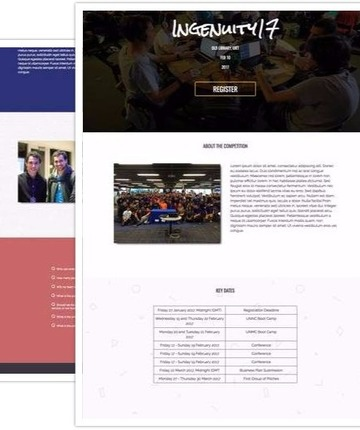
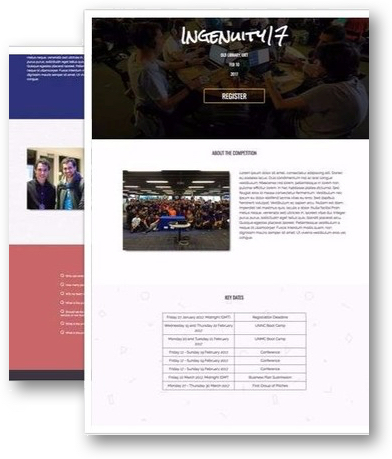
added contact section

diff --git a/css/style.sass b/css/style.sass
@@ -1,4 +1,5 @@
 $buttonColor: #0082D6
+// $buttonColor: black
 $background-color: #0C0C0C
 $textColor: #909090
 $bodyTextColor: #474740
@@ -58,16 +59,19 @@ span.dividerTwo
 	.homeContent
 		text-align: center
 		margin-top: 210px
+		letter-spacing: 3px
 
 		h1
 			font-weight: 800
 			font-size: 79px
+
 
 			// span
 			// 	color: $buttonColor
 			
 		.bio
 			font-size: 50px
+
 			// color: $bodyTextColor
 			
 		.btn
@@ -115,10 +119,10 @@ span.dividerTwo
 		margin-top: 60px
 		padding-bottom: 50px
 
-		img
+		img.workImg
 			margin-bottom: 40px
 			margin-top: 30px
-			box-shadow: 8px 8px 16px -6px black
+			box-shadow: 10px 10px 36px -6px black
 
 		.detailDesc
 			+paraTopMargin()
@@ -157,13 +161,57 @@ span.dividerTwo
 			background-color: darken($buttonColor, 10%)
 
 .contactSection
+	background: 
+		image: url('../img/12.jpeg')
+		attachment: fixed
+		size: cover
+		position: center
+	box-shadow: inset 0 0 0 1000px rgba(0,130,214, 0.9)
+	// box-shadow: inset 0 0 0 1000px rgba(0,0,0,0.94)
 	background-color: $footerColor
 	text-align: center
+	color: white
 	padding-top: 30px	
 
-	i
-		margin-top: 50px
-		font-size: 220px	
+	.contactDivider
+		margin-bottom: 50px
+		background-color: white
+
+	.speechBubble
+		// position: relative
+		height: 170px
+		width: 170px
+		margin: auto
+		// background-color: yellow
+		
+
+		i.icon-Speach-Bubble11
+			background: 
+				image: url('../img/SpeechBubble1111.png')
+				size: cover
+			display: block
+			// position: absolute
+			height: 170px
+			width: 170px
+
+			h4
+				margin-top: 50px
+				font-style: normal
+
+
+	// span
+		// background-color: white
+
+	span.sBubbleContent
+		.sBubble
+			font-size: 240px
+			margin: 10px 0 0 -100px
+			// text-align: center
+
+		.sBubbleText
+			font-size: 30px
+			margin: 90px 0 0 -20px
+			// text-align: center
 
 	h1
 		font-size: 50px
@@ -171,13 +219,10 @@ span.dividerTwo
 	h4
 		padding-bottom: 40px
 
-	
-
-		// .highlight
-		// 	font-weight: bold
 
 footer
-	background-color: darken($footerColor, 10%)
+	background-color: #2F3E47
+	// background-color: black
 	padding: 50px 0 30px 0
 	text-align: center
 
@@ -191,22 +236,25 @@ footer
 			margin-right: 25px
 
 			a
-				color: $bodyTextColor
+				color: #95A8B7
 				transition: 0.3s ease
 				cursor: pointer
 
 				&:hover
-					color: $buttonColor
+					color: white
+	.footerDivider
+		background-color: #95A8B7
 
 	.copyright
 		margin-top: 30px
-
+		color: #95A8B7
 
 
 
 @media (max-width: 1200px)
 	.imgSection
 		.homeContent
+			letter-spacing: 0px
 			h1
 				font-size: 65px
 
@@ -241,48 +289,6 @@ footer
 		h1
 			font-size: 25px
 
-// @media (max-width: 360px)
-// 	.quoteSection
-// 		padding-top: 30px
-		
-
-// @media (max-width: 720px)
-// 	.imgSection
-// 		.homeContent
-// 			h1
-// 				font-size: 50px
-
-// 			.bio
-// 				font-size: 30px
-
-// @media (min-width: 320px) and (max-width: 320px)
-// 	.imgSection
-// 		.homeContent
-// 			h1
-// 				font-size: 40px
-
-// 			.bio
-// 				font-size: 20px
-
-// @media (max-width: 720px)
-// 	.imgSection
-// 		.homeContent
-// 			h1
-// 				font-size: 50px
-
-// 			.bio
-// 				font-size: 30px
-
-// @media (min-width: 320px)
-// 	.imgSection
-// 		// padding-top: 100px
-
-// 		.homeContent
-// 			h1
-// 				font-size: 40px
-
-// 			.bio
-// 				font-size: 20px
 
 
 

diff --git a/css/style.css b/css/style.css
@@ -29,7 +29,8 @@ span.dividerTwo {
   color: white; }
   .imgSection .homeContent {
     text-align: center;
-    margin-top: 210px; }
+    margin-top: 210px;
+    letter-spacing: 3px; }
     .imgSection .homeContent h1 {
       font-weight: 800;
       font-size: 79px; }
@@ -76,10 +77,10 @@ span.dividerTwo {
   .workSection .workContent {
     margin-top: 60px;
     padding-bottom: 50px; }
-    .workSection .workContent img {
+    .workSection .workContent img.workImg {
       margin-bottom: 40px;
       margin-top: 30px;
-      box-shadow: 8px 8px 16px -6px black; }
+      box-shadow: 10px 10px 36px -6px black; }
     .workSection .workContent .detailDesc {
       margin-top: 30px; }
     .workSection .workContent .btn {
@@ -115,19 +116,44 @@ span.dividerTwo {
       background-color: #0063a3; }
 
 .contactSection {
+  background-image: url("../img/12.jpeg");
+  background-attachment: fixed;
+  background-size: cover;
+  background-position: center;
+  box-shadow: inset 0 0 0 1000px rgba(0, 130, 214, 0.9);
   background-color: #F5F5F5;
   text-align: center;
+  color: white;
   padding-top: 30px; }
-  .contactSection i {
-    margin-top: 50px;
-    font-size: 220px; }
+  .contactSection .contactDivider {
+    margin-bottom: 50px;
+    background-color: white; }
+  .contactSection .speechBubble {
+    height: 170px;
+    width: 170px;
+    margin: auto; }
+    .contactSection .speechBubble i.icon-Speach-Bubble11 {
+      background-image: url("../img/SpeechBubble1111.png");
+      background-size: cover;
+      display: block;
+      height: 170px;
+      width: 170px; }
+      .contactSection .speechBubble i.icon-Speach-Bubble11 h4 {
+        margin-top: 50px;
+        font-style: normal; }
+  .contactSection span.sBubbleContent .sBubble {
+    font-size: 240px;
+    margin: 10px 0 0 -100px; }
+  .contactSection span.sBubbleContent .sBubbleText {
+    font-size: 30px;
+    margin: 90px 0 0 -20px; }
   .contactSection h1 {
     font-size: 50px; }
   .contactSection h4 {
     padding-bottom: 40px; }
 
 footer {
-  background-color: gainsboro;
+  background-color: #2F3E47;
   padding: 50px 0 30px 0;
   text-align: center; }
   footer ul {
@@ -138,19 +164,24 @@ footer {
       font-size: 25px;
       margin-right: 25px; }
       footer ul li a {
-        color: #474740;
+        color: #95A8B7;
         transition: 0.3s ease;
         cursor: pointer; }
         footer ul li a:hover {
-          color: #0082D6; }
+          color: white; }
+  footer .footerDivider {
+    background-color: #95A8B7; }
   footer .copyright {
-    margin-top: 30px; }
+    margin-top: 30px;
+    color: #95A8B7; }
 
 @media (max-width: 1200px) {
-  .imgSection .homeContent h1 {
-    font-size: 65px; }
-  .imgSection .homeContent .bio {
-    font-size: 40px; } }
+  .imgSection .homeContent {
+    letter-spacing: 0px; }
+    .imgSection .homeContent h1 {
+      font-size: 65px; }
+    .imgSection .homeContent .bio {
+      font-size: 40px; } }
 @media (max-width: 560px) {
   .imgSection .homeContent h1 {
     font-size: 55px; }

diff --git a/index.html b/index.html
@@ -16,8 +16,8 @@
   <div class="container-fluid imgSection">
     <div class="container">
       <div class="row">
-        <div class="col-md-6 col-md-offset-3 homeContent">
-          <h1>I'm Baljit Singh</h1>
+        <div class="col-md-12 homeContent">
+          <h1>I'M BALJIT SINGH</h1>
           <p class="bio">Front-End Developer </p>
           <p>Also a guy learning designing and one who prefers tab over spaces</p>
           <input class="btn  btn-lg" type="submit" name="submit" value="KNOW ME BETTER"/>
@@ -81,7 +81,7 @@
       </div>
       <div class="row workContent contentBorder">
         <div class="col-md-6">
-          <img class="img-responsive hiddenFirstImg" src="img/work2.jpg">
+          <img class="img-responsive workImg hiddenFirstImg" src="img/work2.jpg">
         </div>
         <div class="col-md-6">
           <h1>truMoney Sample user Dashboard</h1>
@@ -93,7 +93,7 @@
       </div>
       <div class="row workContent">
         <div class="col-md-6">
-          <img class="img-responsive hiddenFirstImg" src="img/work3.jpg">
+          <img class="img-responsive workImg hiddenFirstImg" src="img/work3.jpg">
         </div>
         <div class="col-md-6 rightWorkSection">
           <h1>Online Journal</h1>
@@ -107,11 +107,13 @@
   </div>
   <div class="container-fluid contactSection">
     <h3>CONTACT ME</h3>
-    <span class="divider"></span>
-    <img class="img-responsive hiddenFirstImg" src="img/sbubble.jpg">
+    <span class="divider contactDivider"></span>
+    <div class="speechBubble">
+      <i class="icon-Speach-Bubble11"></i>
+    </div>
     <h1>BALJIT <strong>SINGH</strong></h1>
     <h4>baljitsinghx01@gmail.com</h4>
-    <span class="dividerTwo"></span>
+    <span class="dividerTwo contactDivider"></span>
     <!-- <p>Have a project you'd like to discuss</p> -->
   </div>
   <footer>
@@ -123,7 +125,7 @@
           <li><a href="#"><i class="fa fa-google-plus" aria-hidden="true"></i></a></li>
           <li><a href="#"><i class="fa fa-linkedin" aria-hidden="true"></i></a></li>
         </ul>
-        <span class="dividerTwo"></span>
+        <span class="dividerTwo footerDivider"></span>
         <p class="copyright">&copy Baljit singh, 2017</p>
       </div>
     </div>

diff --git a/js/functions.js b/js/functions.js
@@ -3,7 +3,7 @@ $(".imgSection").css("min-height",$(window).height() - 110);
 $(".aboutSection").css("min-height",$(window).height() - 110);
 $(".workSection").css("min-height",$(window).height() - 90);
 $(".quoteSection").css("min-height",$(window).height() - 490);
-$(".contactSection").css("min-height",$(window).height() - 190);
+$(".contactSection").css("min-height",$(window).height() - 240);
 
 
 $(window).scroll(function(){
